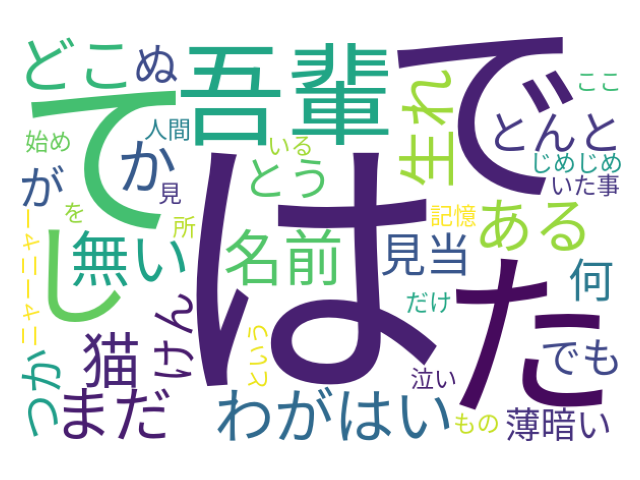
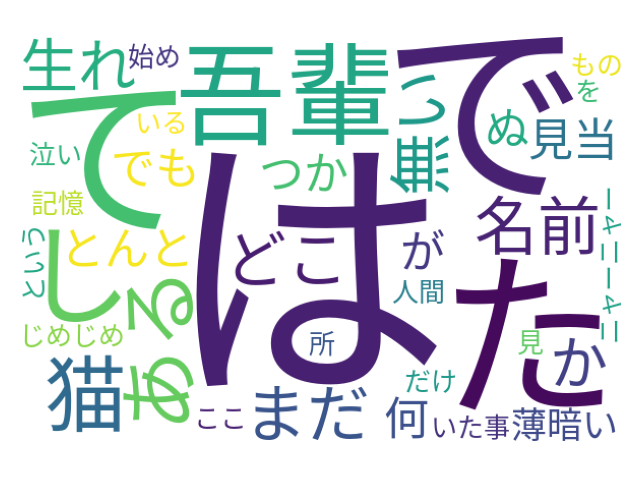
8th pre

diff --git a/docs/du2025/8.md b/docs/du2025/8.md
@@ -289,7 +289,7 @@ import matplotlib.pyplot as plt
 tagger = MeCab.Tagger("-Owakati")
 
 # 解析するテキスト（「吾輩は猫である」の冒頭）
-text = "吾輩わがはいは猫である。名前はまだ無い。どこで生れたかとんと見当けんとうがつかぬ。何でも薄暗いじめじめした所でニャーニャー泣いていた事だけは記憶している。吾輩はここで始めて人間というものを見た。"
+text = "吾輩は猫である。名前はまだ無い。どこで生れたかとんと見当がつかぬ。何でも薄暗いじめじめした所でニャーニャー泣いていた事だけは記憶している。吾輩はここで始めて人間というものを見た。"
 
 # 形態素解析を実行
 words = tagger.parse(text)
